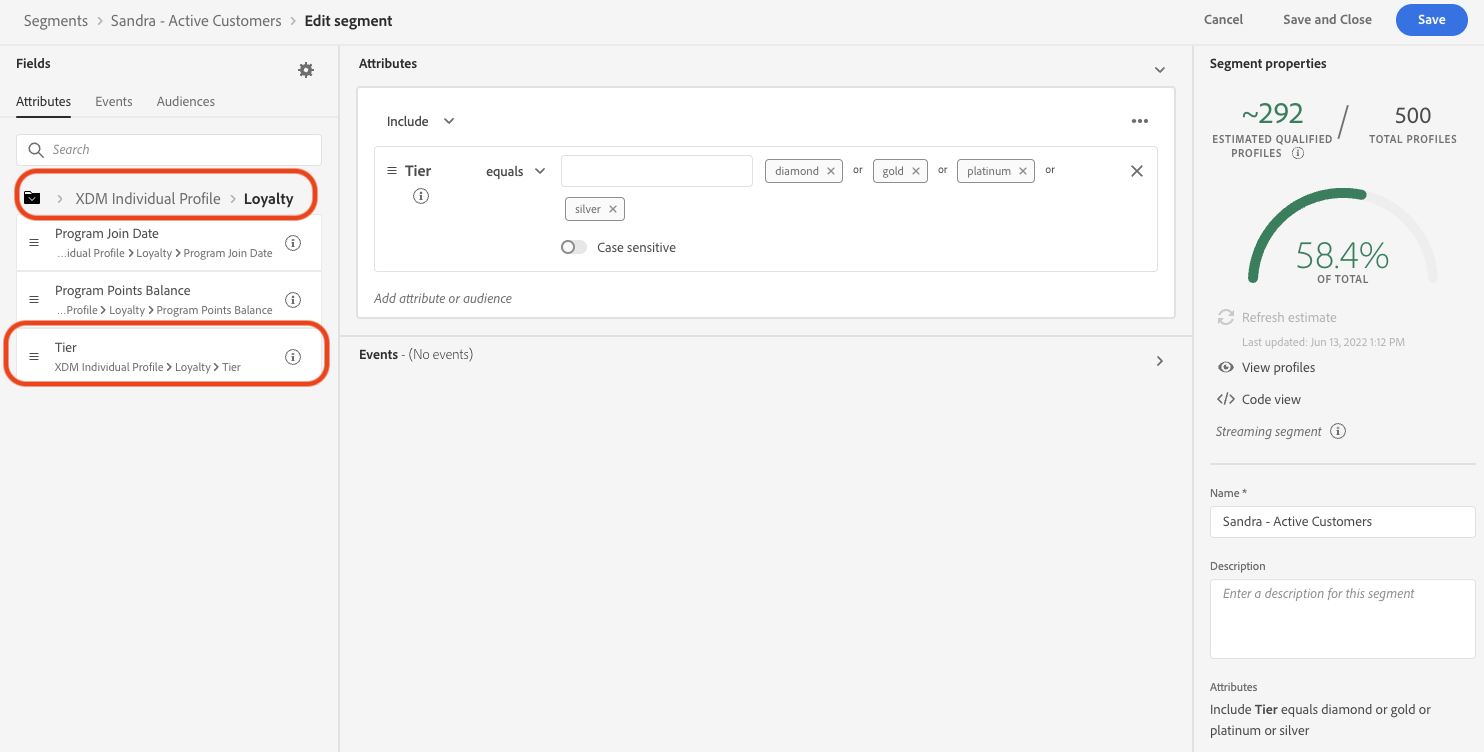
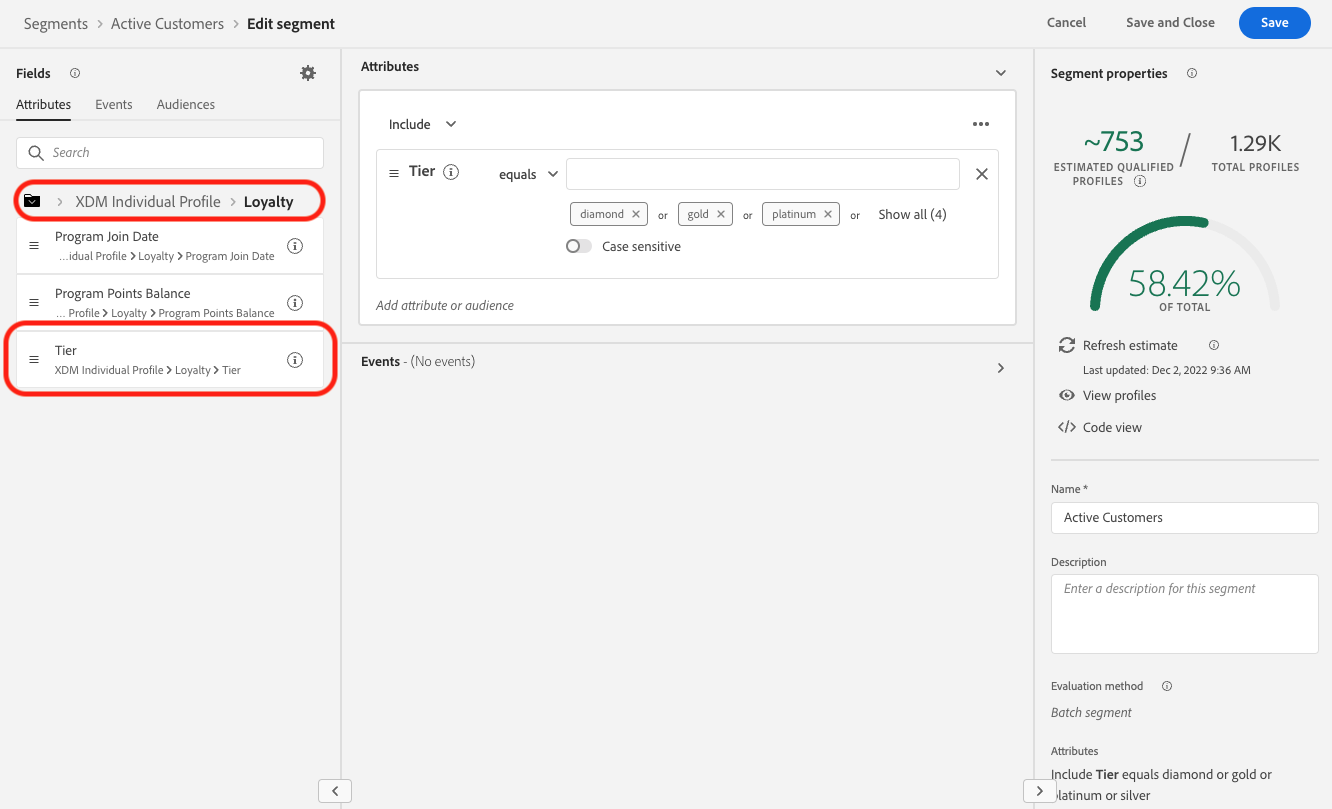
Challenge 1 update

diff --git a/help/challenges/summer-collection-announcement-challenge.md b/help/challenges/summer-collection-announcement-challenge.md
@@ -24,8 +24,10 @@ Luma, a fictional athletic apparel company, is looking to promote its latest ap
 
 ## Your Challenge
 
-The Luma marketing team asks you to implement a summer collection marketing campaign in Journey Optimizer. Your challenge is to create a journey in Journey Optimizer. Specifically, you must create the required segment, create four messages, and build the journey.
+The Luma marketing team asks you to implement a summer collection marketing campaign in Journey Optimizer. Your challenge is to:
 
+* Create a segment defining which profiles qualify to receive the promotion.
+* Build the journey 
 
 ### Step 1: Define the Segment – Active Customers
 
@@ -33,15 +35,16 @@ The Luma marketing team asks you to implement a summer collection marketing ca
 
 >[!TAB Task]
 
-Create a segment in Journey Optimizer called **Active Customers**.
+#### Create a segment in Journey Optimizer
 
+* Create a segment in Journey Optimizer called `Active Customers`.
 * The segment must include only active Luma customers.
 * Active customers are defined as customers who have a tier in Luma's loyalty program (silver, gold, platinum, or diamond).
 
 
 >[!TAB Success Criteria]
 
-In the segment builder, you can see the estimated number of qualified profiles.
+In the segment builder, you can see the estimated number of qualified profiles. If you are working with the training sandbox data, you will have around 753 qualified profiles out of 1.29 K.
 
 >[!NOTE]
 >It can take up to 24 hours for the segment membership to appear for existing profiles, as the existing profiles need to be backfilled.
@@ -83,31 +86,38 @@ stringCompare("equals", loyalty.tier, ["diamond", "gold", "platinum", "silver"],
 
 >[!TAB Task]
 
-Send a summer collection announcement to a segment of existing customers' email promoting the new Luma summer collection.'  
+#### Send a summer collection announcement 
 
-An agency provided you with four HTML files with the design for the emails: [Download the Seasonal Collection email files](/help/challenges/assets/email-assets/emails-seasonal-collection-announcement.zip)
+An agency provided you with four HTML files with the design for the emails: 
 
-Create a journey called `(your name) - Summer collection announcement` based on the following guidelines:
+* SeasonalCollectionEmail.html
+* Luma Men's Collection email
+* Luma Women's Collection email
+* Luma - 20 % off Collection email
 
-1.  Send Luma – New Seasonal Collection Announcement email to the Luma-Active Customers segment, holding out 10% of the audience as a control group 
-       * Message title `(your name)_Luma New Seasonal Collection Announcement`.
+1. [Download the Seasonal Collection email files](/help/challenges/assets/email-assets/emails-seasonal-collection-announcement.zip). 
+
+2. Create a journey called `Luma - Summer collection announcement` based on the following guidelines:
+
+   1.  Send *Luma - New Seasonal Collection Announcement* email to the *Active Customers* segment, holding out 10% of the audience as a control group 
+       * Message title `Luma New Seasonal Collection Announcement`.
        * Subject line `(recipient's first name), the new Luma collection is here!`.
        * Use the provided HTML file *SeasonalCollectionEmail.html* for the email body.
-2.  Wait two days then send a follow-up email message with more targeted content:
-      *   Male customers should receive the **Luma Men's Collection email**
-           * Message title: **(your name)_Luma Men's Collection**
-           * Subject line: **(recipient's first name), explore Men's New athletic gear!**
-           * Email body: *MensCollectionEmail.html* for the email body.
-      *   Female customers should receive the **Luma Women's Collection email**
-           * Message title: **(your name)_Luma Women's Collection**
-           * Subject line: **(recipient's first name), explore Luma's Women Collection!**
-           * Email body: *WomensCollectionEmail.html*
-      *   Other customers should receive the **Luma - 20 % off Collection email**
-           * Message title: **(your name)_Luma - 20 % off Collection**
-           * Subject line:**(recipient's first name), enjoy 20% off sales!**
-           * Email body: *20OOffCollectionEmail.html* 
-3.  After sending the targeted emails above, wait two days for the email to be opened
-4.  If the targeted email is not opened within 2 days, send the **Luma - 20 %off Collection email** as a final retargeting attempt
+   2.  Wait two days then send a follow-up email message with more targeted content:
+          *   Male customers should receive the **Luma Men's Collection email**
+               * Message title: `Luma Men's Collection`
+               * Subject line: `(recipient's first name), explore Men's New athletic gear!`
+               * Email body: *MensCollectionEmail.html* for the email body.
+          *   Female customers should receive the **Luma Women's Collection email**
+               * Message title: `Luma Women's Collection`
+               * Subject line: `(recipient's first name), explore Luma's Women Collection!`
+               * Email body: *WomensCollectionEmail.html*
+          *   Other customers should receive the **Luma - 20 % off Collection email**
+               * Message title: `Luma - 20 % off Collection`
+               * Subject line: `(recipient's first name), enjoy 20% off sales!`
+               * Email body: *20OOffCollectionEmail.html* 
+   3.  After sending the targeted emails above, wait two days for the email to be opened
+   4.  If the targeted email is not opened within 2 days, send the **Luma - 20 %off Collection email** as a final retargeting attempt
 
 
 >[!TAB Success Criteria]
